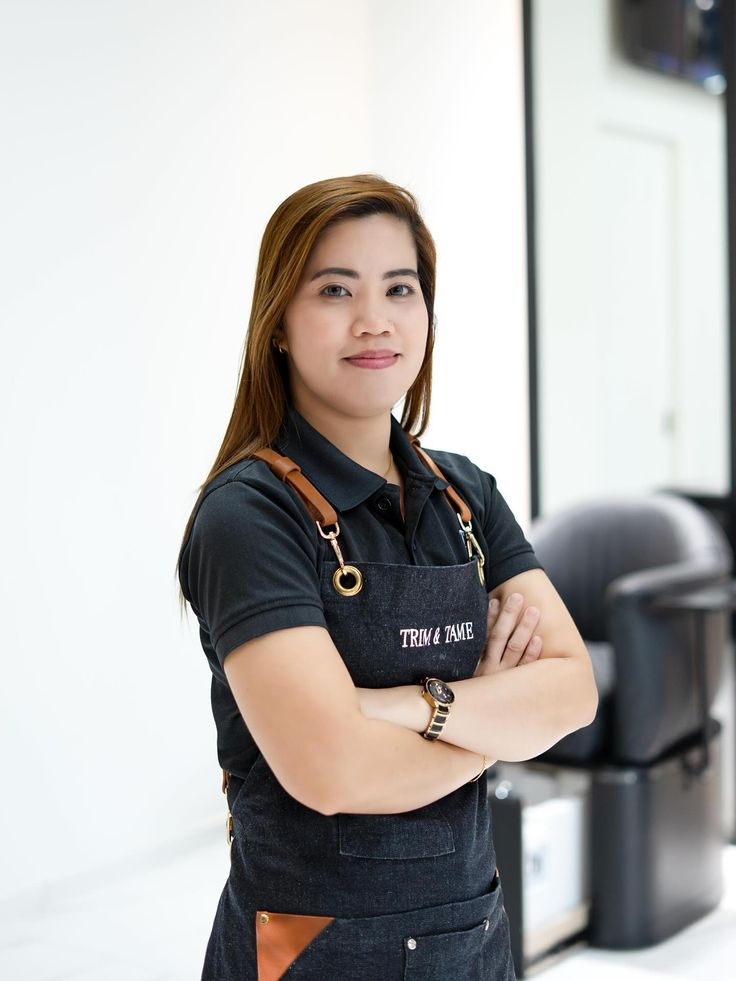
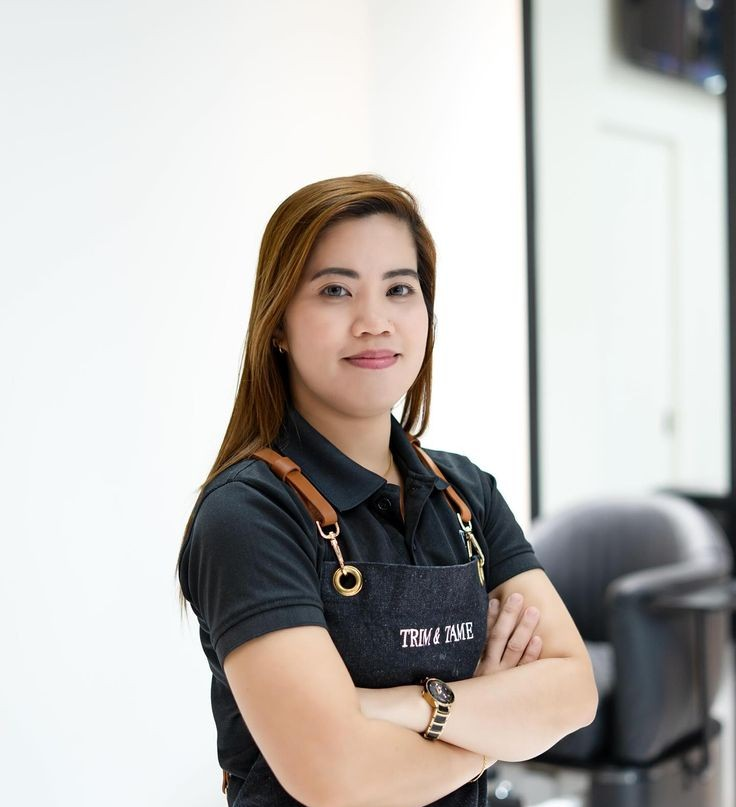
Update barber profiles and images for accuracy and consistency

diff --git a/home.css b/home.css
@@ -103,12 +103,16 @@ header {
   font-weight: bold;
 }
 
+.navlink a:hover {
+  color: #9a7045;
+}
+
 .links a::after {
   content: "";
   position: absolute;
 
   left: 0;
-  bottom: -3px;
+  bottom: -4px;
   width: 0;
   height: 2px;
   background-color: orange;
@@ -120,7 +124,6 @@ header {
 }
 
 .links a:hover {
-  color: #a67c3b;
   transform: scale(1.2);
 }
 
@@ -166,7 +169,7 @@ header {
 }
 
 .links a:hover {
-  color: white;
+  color: #9a7045;
 }
 
 .intro {
@@ -292,9 +295,14 @@ header {
 }
 
 .haircut-1:hover {
-  background-color: #584209;
+  background: radial-gradient(
+    circle at 0% 0,
+    rgba(160, 107, 58, 0.336),
+    transparent 100%
+  );
+
   transform: scale(1.04);
-  box-shadow: 0 20px 80px #a67c3b;
+  box-shadow: 0 0 50px #a67c3b;
 }
 
 .haircut-2 {
@@ -311,9 +319,14 @@ header {
 }
 
 .haircut-2:hover {
-  background-color: #5c4d35;
+  background: radial-gradient(
+    circle at 0% 0,
+    rgba(40, 115, 161, 0.331),
+    transparent 100%
+  );
+
   transform: scale(1.04);
-  box-shadow: 0 20px 80px #a67c3b;
+  box-shadow: 0 0 50px #a67c3b;
 }
 
 .haircut-3 {
@@ -330,9 +343,14 @@ header {
 }
 
 .haircut-3:hover {
-  background-color: #4b5139;
+  background: radial-gradient(
+    circle at 0% 0,
+    rgba(115, 135, 43, 0.425),
+    transparent 100%
+  );
+
   transform: scale(1.04);
-  box-shadow: 0 20px 80px #a67c3b;
+  box-shadow: 0 0 50px #a67c3b;
 }
 
 .haircut-4 {
@@ -349,9 +367,10 @@ header {
 }
 
 .haircut-4:hover {
-  background-color: #3e4a4a;
+  background: radial-gradient(circle at 0% 0, #3e4a4ab9, transparent 100%);
+
   transform: scale(1.04);
-  box-shadow: 0 20px 80px #a67c3b;
+  box-shadow: 0 0 40px #a67c3b;
 }
 
 .haircut-5 {
@@ -368,9 +387,10 @@ header {
 }
 
 .haircut-5:hover {
-  background-color: #4d3730;
+  background: radial-gradient(circle at 0% 0, #4d3730c0, transparent 100%);
+
   transform: scale(1.04);
-  box-shadow: 0 20px 80px #a67c3b;
+  box-shadow: 0 0 50px #a67c3b;
 }
 
 .haircut-6 {
@@ -387,9 +407,10 @@ header {
 }
 
 .haircut-6:hover {
-  background-color: #3a2614;
+  background: radial-gradient(circle at 0% 0, #56371dbd, transparent 100%);
+
   transform: scale(1.04);
-  box-shadow: 0 20px 80px #a67c3b;
+  box-shadow: 0 0 50px #a67c3b;
 }
 
 .haircut-7 {
@@ -406,9 +427,10 @@ header {
 }
 
 .haircut-7:hover {
-  background-color: #413b31;
+  background: radial-gradient(circle at 0% 0, #413b31, transparent 100%);
+
   transform: scale(1.04);
-  box-shadow: 0 20px 80px #a67c3b;
+  box-shadow: 0 0 50px #a67c3b;
 }
 
 .haircut-8 {
@@ -424,9 +446,10 @@ header {
 }
 
 .haircut-8:hover {
-  background-color: #293b3a;
+  background: radial-gradient(circle at 0% 0, #293b3a, transparent 100%);
+
   transform: scale(1.04);
-  box-shadow: 0 20px 80px #a67c3b;
+  box-shadow: 0 0 50px #a67c3b;
 }
 
 section {
@@ -456,6 +479,8 @@ section {
 
   display: inline-block;
   position: relative;
+
+  transition: 0.3s ease;
 }
 
 .service a::after {
@@ -465,14 +490,18 @@ section {
   left: 0;
   bottom: 0;
   width: 0;
-  height: 2px;
+  height: 3px;
 
-  background-color: currentColor;
+  background-color: #a67c3b;
   transition: width 0.3s ease;
 }
 
 .service a:hover::after {
   width: 100%;
+}
+
+.service a:hover {
+  color: #a67c3b;
 }
 
 .price {
@@ -500,7 +529,7 @@ a {
 .haircut-6:hover,
 .haircut-7:hover,
 .haircut-8:hover {
-  border: 1px solid orange;
+  border: 1px solid #a67c3b;
 }
 
 .about {
@@ -1401,6 +1430,7 @@ details p {
   height: 230px;
   width: 100%;
   object-fit: cover;
+  object-position: center;
 }
 
 .barber-info {

diff --git a/home.html b/home.html
@@ -205,11 +205,11 @@
     <div class="barber-card">
         <div class="barber-1">
             <div class="barber-pic">
-                <img src="barber1.jpg" alt="staff 1">
+                <img src="staff1.jpg" alt="staff 1">
             </div>
 
             <div class="barber-info">
-                <h3>Janry Bendijo</h3>
+                <h3>Mia Jose Silva</h3>
                 <p class="position">Barber Specialist</p>
                 <p class="details">Classic cuts, fades, and modern hairstyles.</p>
             </div>
@@ -220,11 +220,11 @@
 
         <div class="barber-2">
             <div class="barber-pic">
-                <img src="barber2.jpg" alt="staff 2">
+                <img src="staff2.jpg" alt="staff 2">
             </div>
 
             <div class="barber-info">
-                <h3>Jeecee Pineda</h3>
+                <h3>Leo Ramos Cruz</h3>
                 <p class="position">Barber Specialist</p>
                 <p class="details">Specialize in fades & modern hairstyles.</p>
 
@@ -234,11 +234,11 @@
 
         <div class="barber-3">
             <div class="barber-pic">
-                <img src="barber3.jpg" alt="staff 2">
+                <img src="staff3.jpg" alt="staff 2">
             </div>
 
             <div class="barber-info">
-                <h3>James Garalde</h3>
+                <h3>Ian Dizon</h3>
                 <p class="position">Barber Specialist</p>
                 <p class="details">Specialize in classic and modern hairstyles.</p>
             </div>
